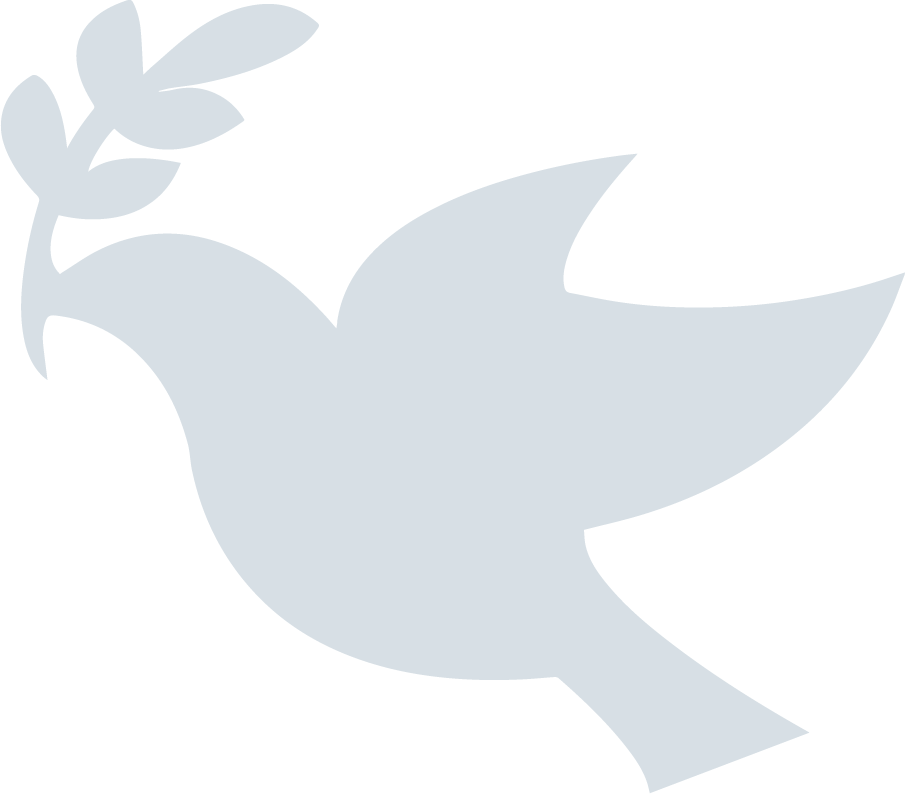
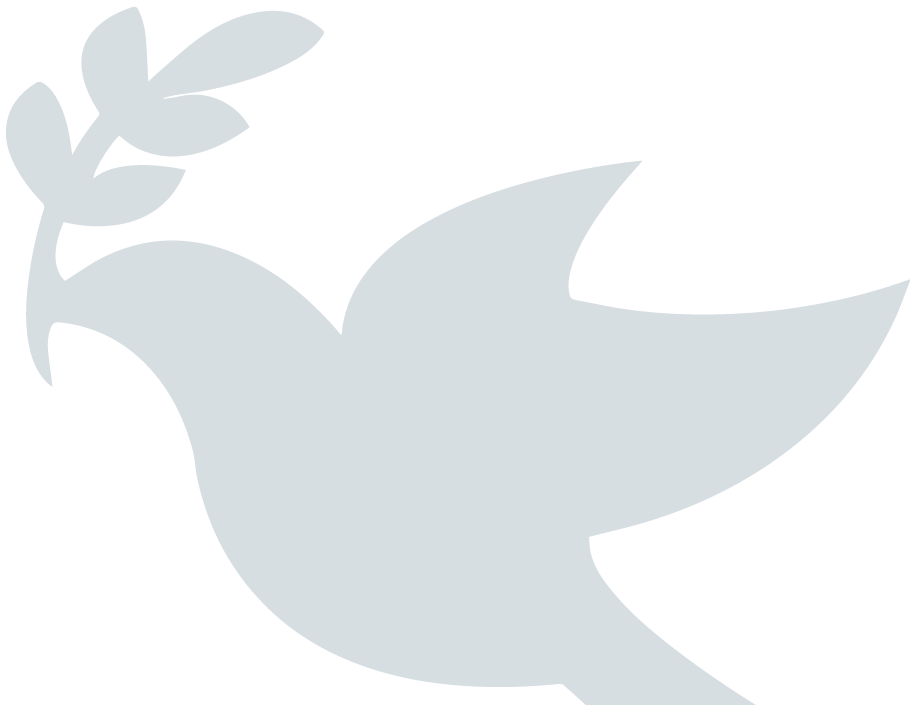
More Mobile Changes
Looks like the header is done!

diff --git a/style.css b/style.css
@@ -6,14 +6,6 @@ Description: Theme for Abe Keller Peace Education FUNd
 Version: 1.0
 */
 
-/* Alycia's TO DO List
-    get slug for utility list-update
-    update the home page to catch the excepts
-    update the icons for mail and for facebook 
-*/
-
-
-
 /*Resets*/
 * {
 	margin: 0;
@@ -469,20 +461,106 @@ footer p{
     clear: both; 
 }
 
+#menubtn{
+    display: none; 
+}
+
+#mobiledove{
+    display: none; 
+}
+
 /*Mobile Styles*/
 
 @media only screen and (max-width: 380px){
     
+    html{
+        margin-top:0; 
+    }
+    
+    #mobiledove{
+        display:block; 
+        position:absolute; 
+        z-index: -2; 
+    }
+    
+    #header{
+        margin:0; 
+    }
+    
+    body{
+        margin: 0; 
+    }
+    
     #background{
         display: none; 
     }
-    
+    #content{
+        position: static; 
+    }
     #logo{
         float: none;
-        padding-left: 31.5%; 
+        display:block;
+        margin:auto; 
+        padding-top: 6px; 
+        z-index:1; 
     }
     #header h1{
         display:none; 
+    }
+    
+    #utilities{
+        margin: 0; 
+        z-index: 1; 
+    }
+    
+    /* Nav Styles*/
+    
+    #navigation{
+        border-radius: 0px;  
+        position: static;
+        background-color: #1a5b72; 
+    }
+    
+    #menubtn{
+        display: block;
+        background-color: #1a5b72; 
+        color: white; 
+        width: 100%; 
+        border: none; 
+        font-family: 'Source Sans Pro', sans-serif;
+        font-weight: 400px; 
+        padding: 12px 8px;
+        font-size:1.1875em;
+        margin-left: 1px; 
+    }
+    
+    #nav-main{
+        padding-left: 0px; 
+        display: none; 
+        overflow: hidden; 
+        margin-left: 1px; 
+    }
+    
+    #navigation ul li ul.sub-menu{
+        display: block; 
+        position: relative;
+        padding-left: 16px; 
+        background-color: #1a5b72; 
+    }
+    
+    #navigation ul li ul.sub-menu a{
+        color: white; 
+        background-color: #1a5b72;
+    }
+    
+    #navigation-items > li {
+	    width:100%;   
+        position:relative;
+    }
+    
+    #navigation-items > li a{
+	    color: white; 
+        background-color: #1a5b72;
     }
     
     .slideshow_container{

diff --git a/header.php b/header.php
@@ -19,6 +19,9 @@
 <body <?php body_class(); ?>>
 
     <div id="header">
+        
+    <img id="mobiledove" src="<?php echo get_template_directory_uri(); ?>/images/mobiledove.png"/>
+                
     <a href="<?php bloginfo('url'); ?>" class="logo"><img src=<?php echo get_template_directory_uri(); ?>/images/logo.png alt="<?php bloginfo('name'); ?>" id="logo" /></a>
         
     <h1>Abe Keller Peace Education Fund</h1>
@@ -29,13 +32,28 @@
         <div class="utility" style="width: 35%;">
             <a href="https://www.facebook.com/Abe-Keller-Peace-Education-Fund-204425039587193/"><img src=<?php echo get_template_directory_uri(); ?>/images/facebook.png alt="facebook f logo"/>facebook</a>
         </div>
+        
     </nav>
         
     <!--Begin Primary Navigation-->  
+        
+        
+    <button id="menubtn" onclick="myMenu()">&#9776; menu</button>
     <nav id="nav-main">
         <?php wp_nav_menu( array ('theme_location' => 'main-menu', 'container'=> 'div', 'container_id' => 'navigation',
             'items_wrap' => '<ul id="navigation-items" class=%2$s">%3$s</ul>', )); ?>
     </nav>
+    
+    <script>
+        function myMenu() {
+            var x = document.getElementById('nav-main');
+        if (x.style.display === 'none') {
+            x.style.display = 'block';
+        } else {
+            x.style.display = 'none';
+            }
+        }
+    </script>
 	<!--End Navigation-->  
     </div>
     <!--Begin Content-->
